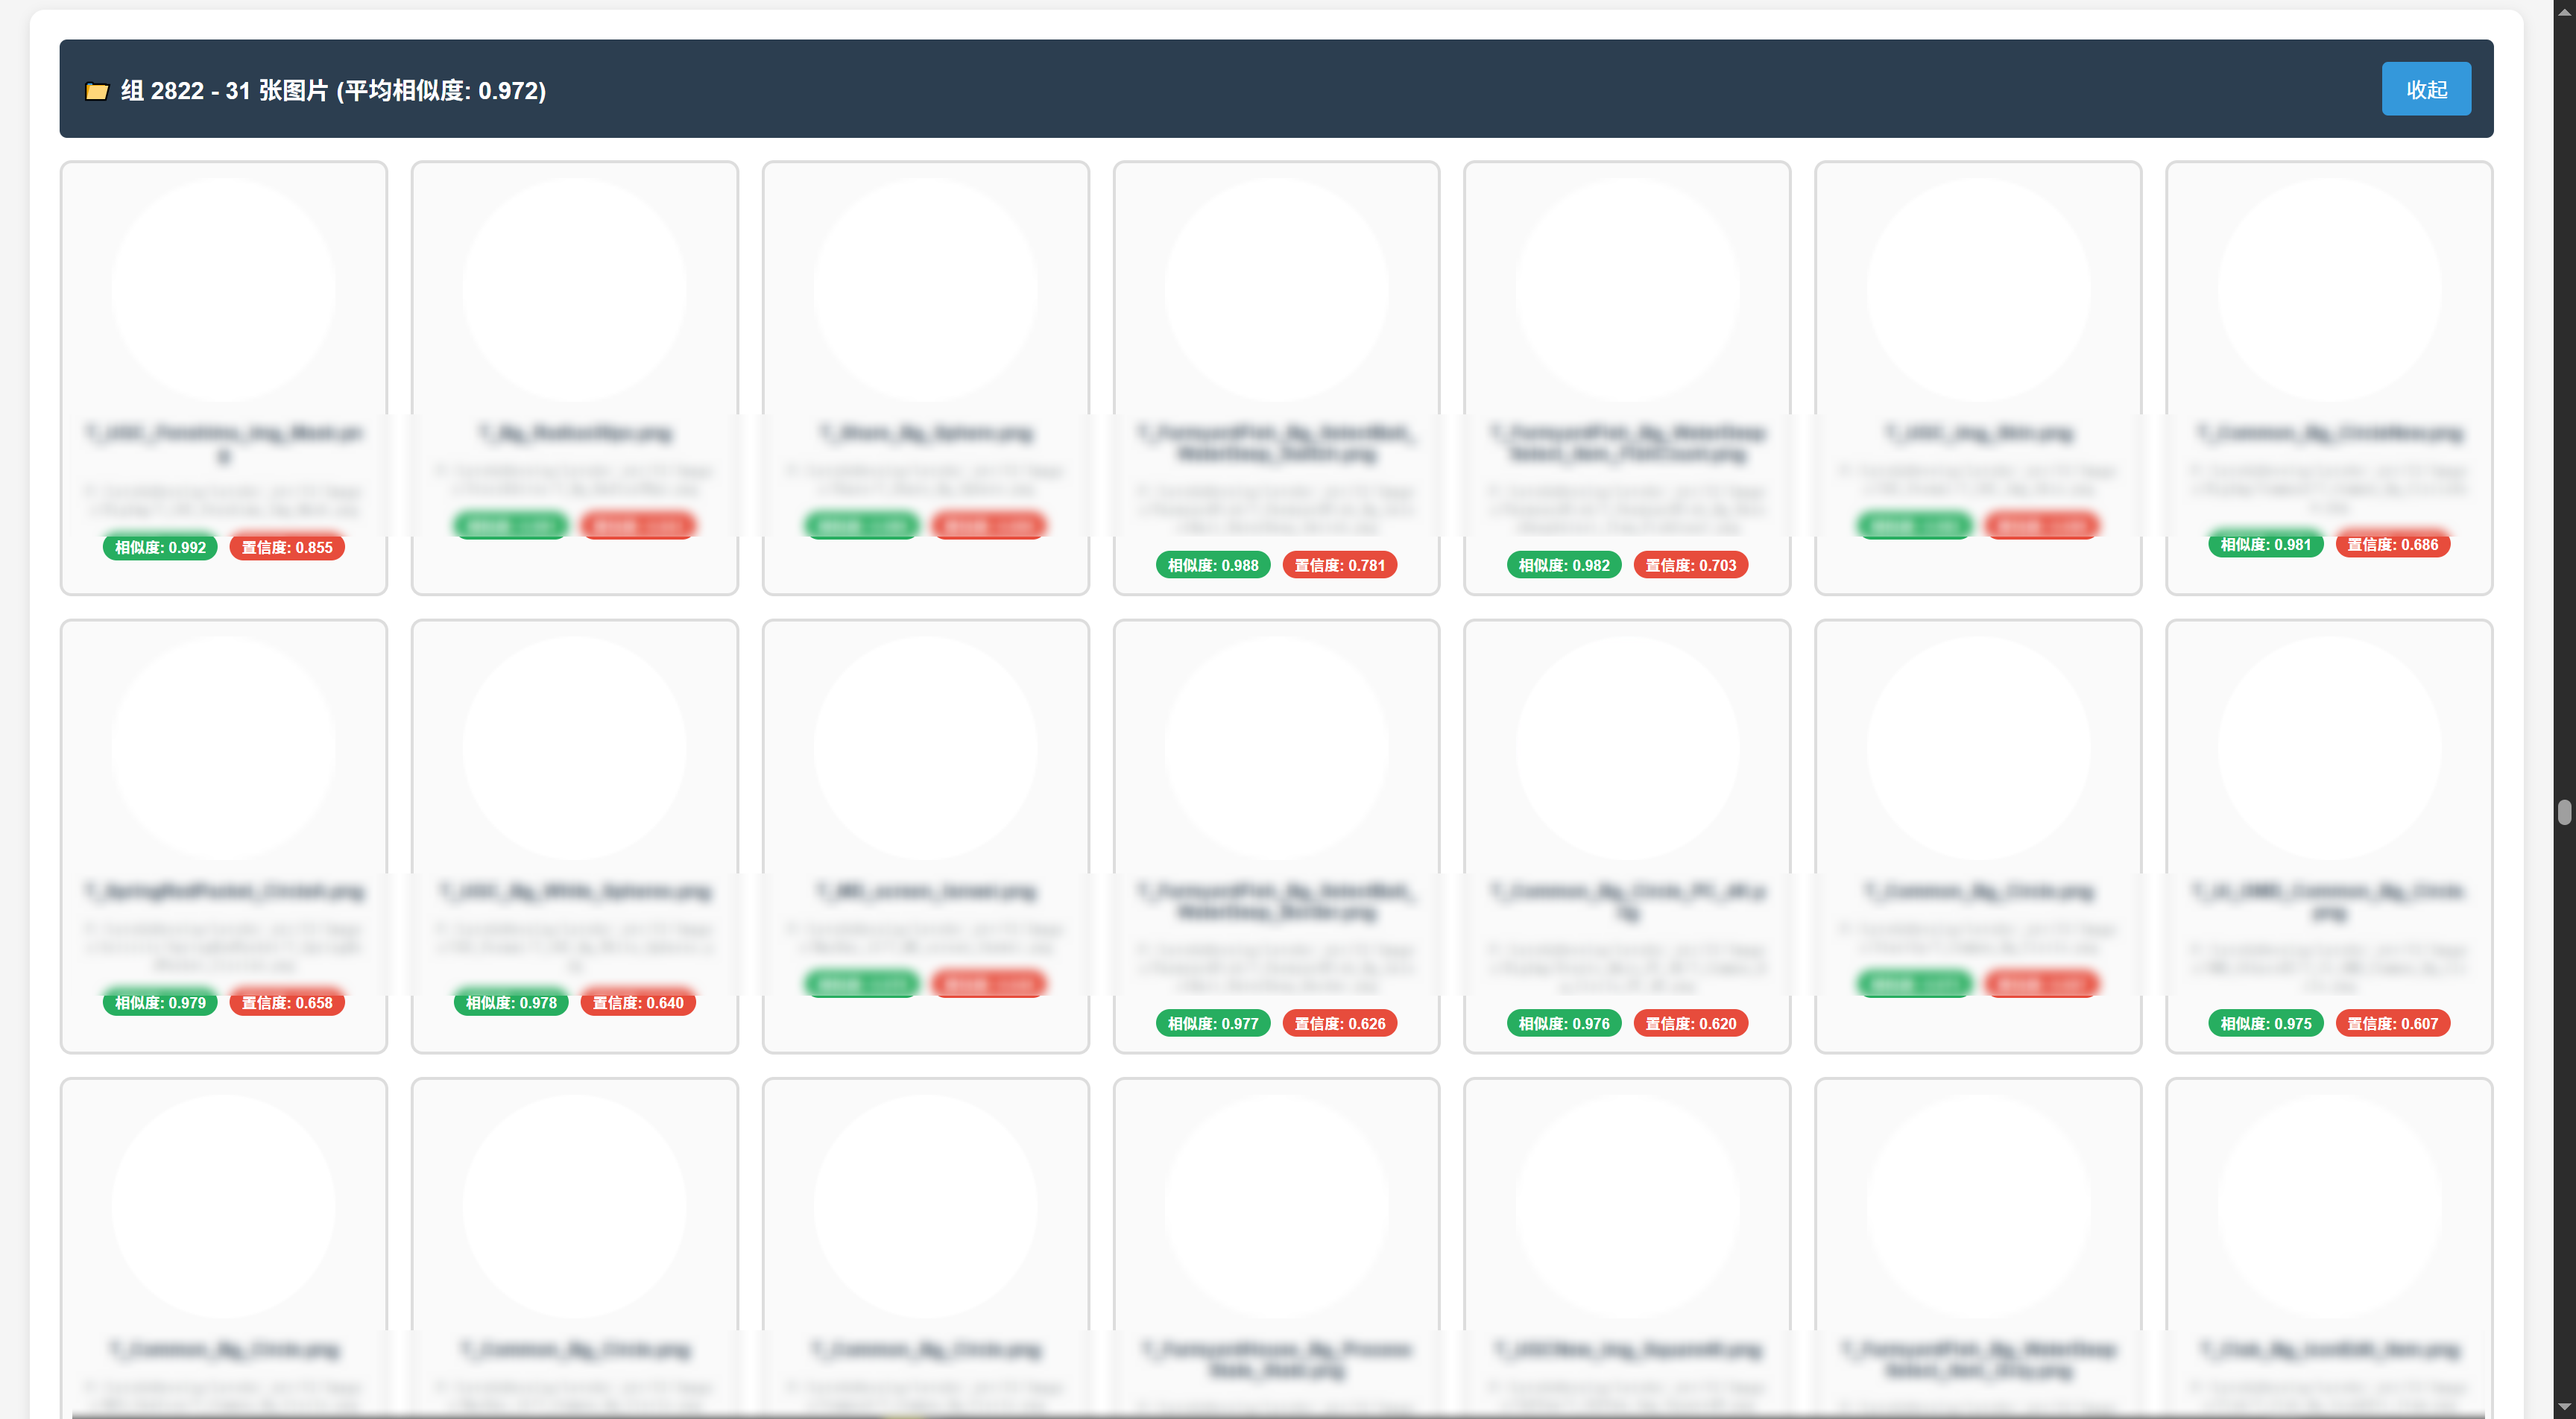
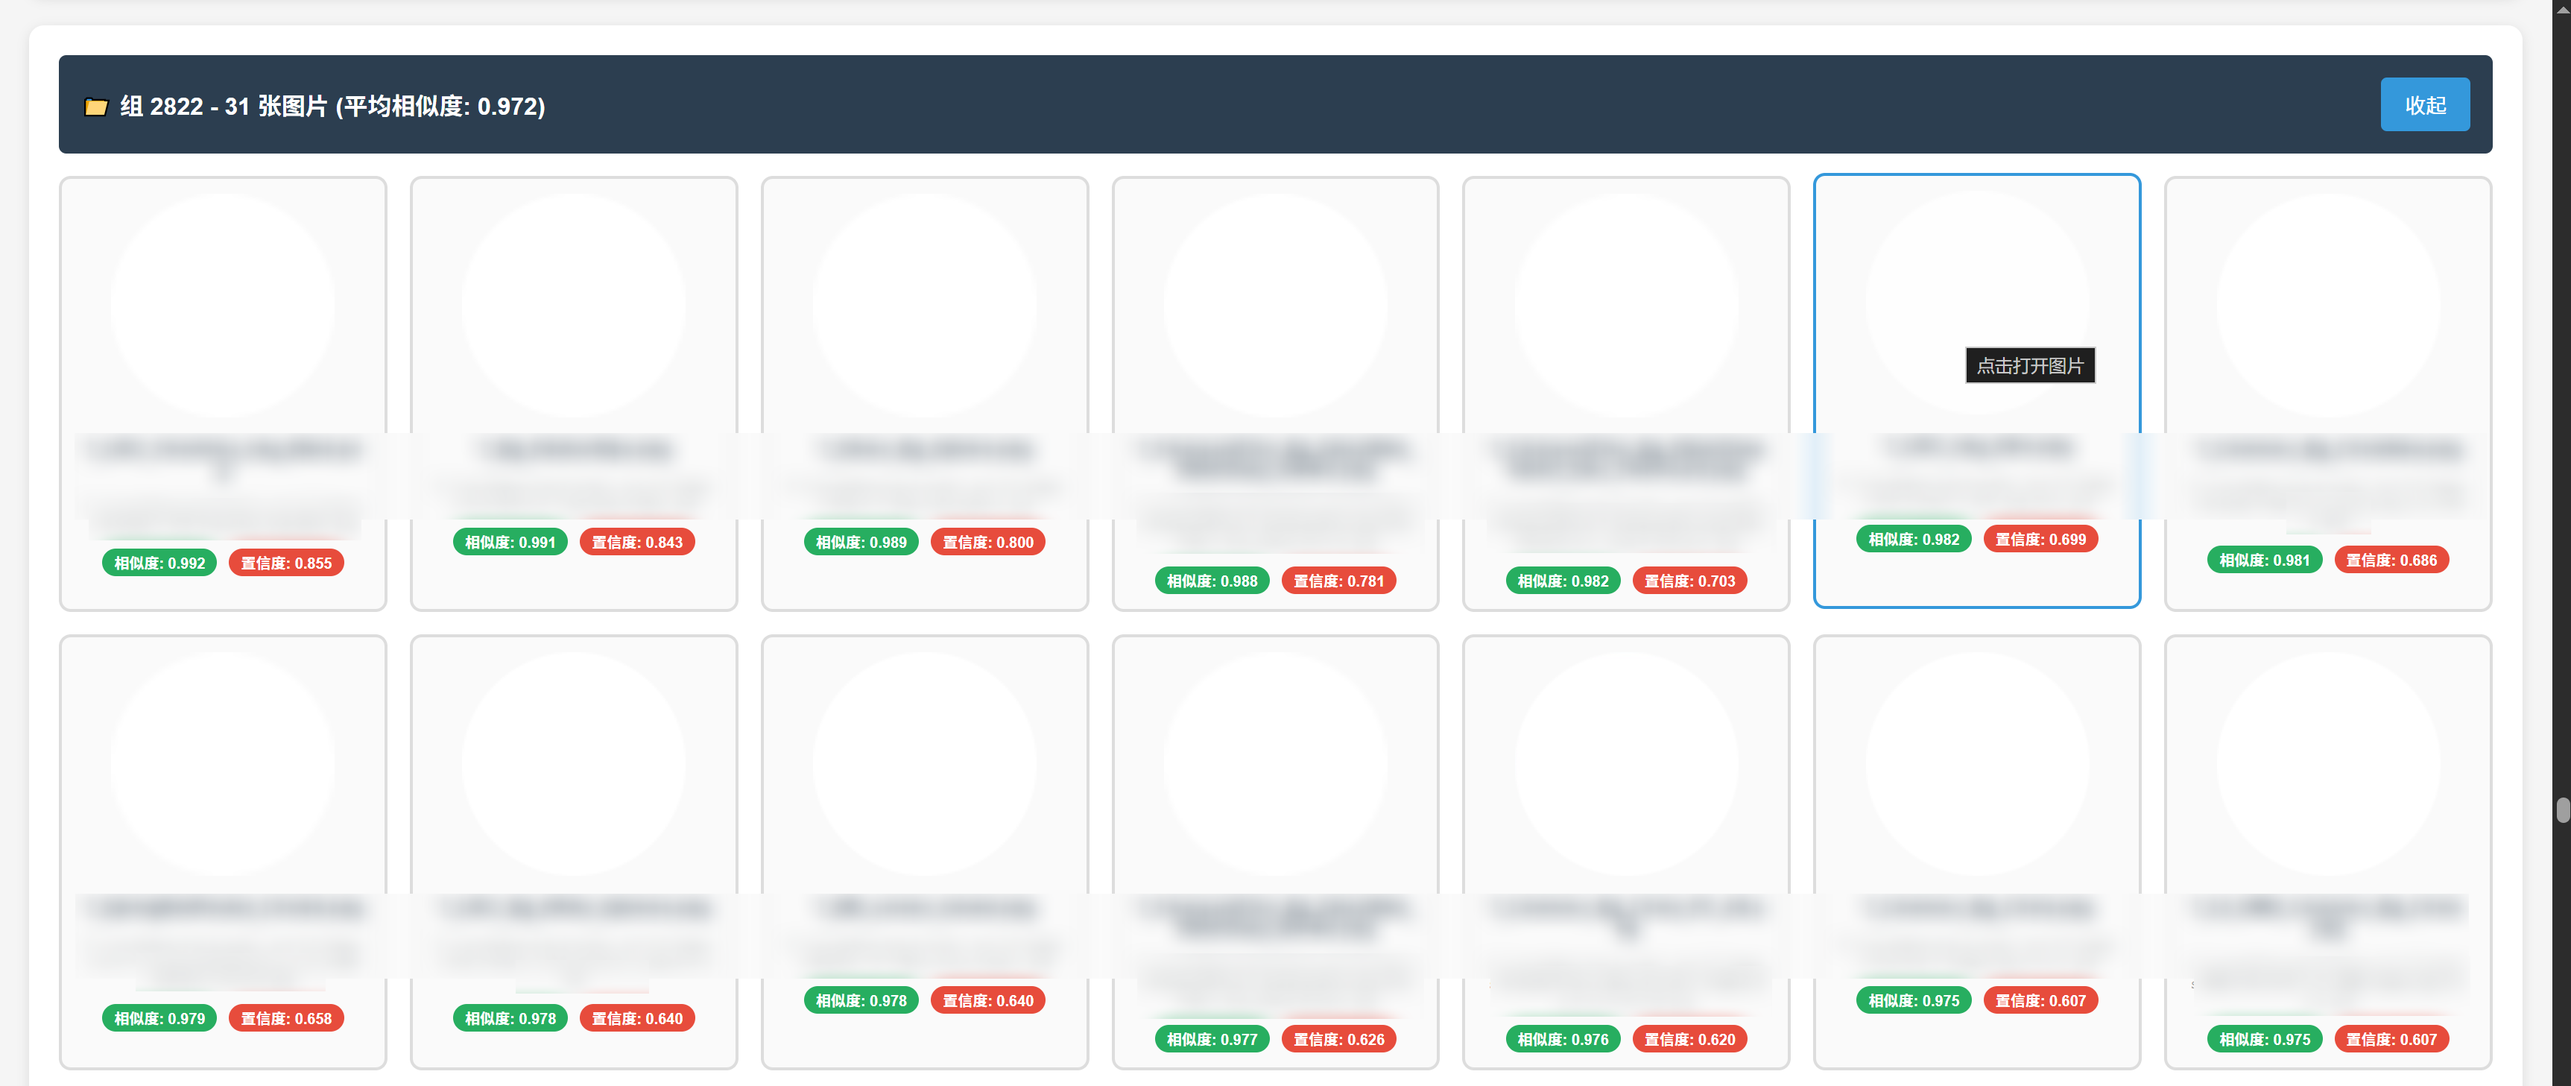
分享修改

diff --git a/Share/Share.md b/Share/Share.md
@@ -128,7 +128,7 @@
 JPEG使用DCT(离散余弦变换)将图像从空间域转换到频域，借鉴JPEG压缩的方法：
 
 **DCT(离散余弦变换)的过程**：
-- 将256×256像素图像分解为不同频率的余弦波组合，可以简单理解为二维的FFT，输出数组也是256×256
+- 将256×256像素图像分解为不同频率的余弦波组合，可以简单理解为二维的FFT，输出256×256维的浮点数
 - 越靠近左上角的系数表示越低频的成分，越靠近右下角表示越高频的成分，选择左上角N×N个低频系数可以保留图片主体信息
 - DCT系数是连续的浮点数，可直接用于多个下游任务
 
